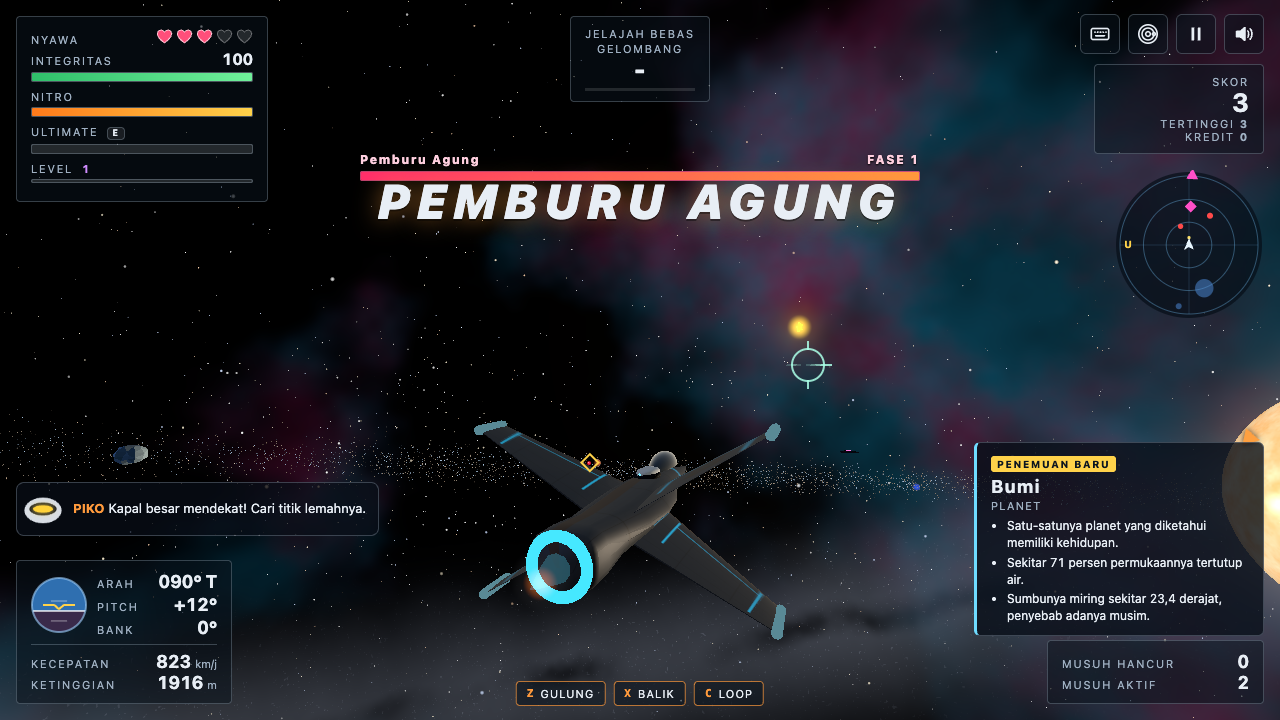
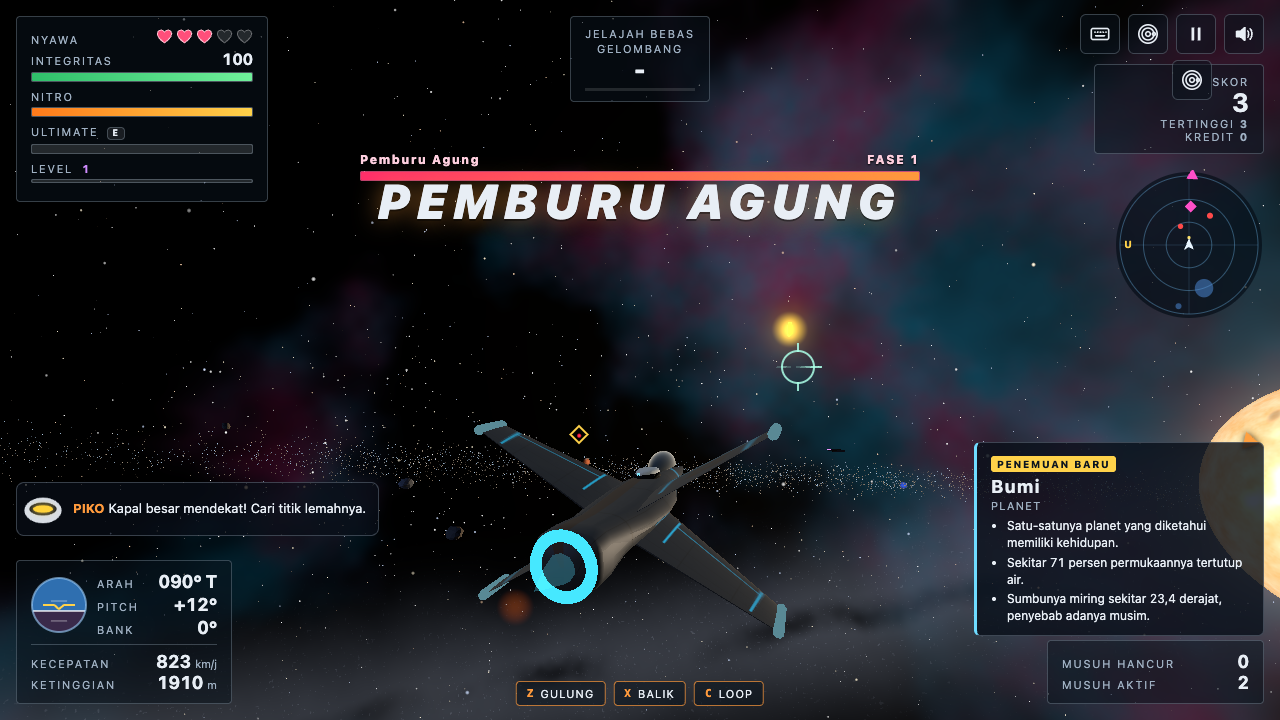
feat: H3 HUD ringkas mode HP: status 146x47 kiri atas, satu baris misi dan skor, toolbar Jeda dan Suara, radar 52 px dengan ikon peta
- Blok HUD desktop tidak berubah; mode HP memakai #hpx-status dan #hpx-top
- Tombol mode kontrol dan peta disembunyikan dari toolbar saat bermain di mode HP
- Bar bos tipis 5 px di bawah baris misi, buff berupa ikon kecil di bawah status
- Radar menyesuaikan ukuran CSS, teks HUD minimal 11 px
- Uji tekanan 27a masih menangkap panel Piko, panel data, dan peringatan lama yang diganti di H4

diff --git a/index.html b/index.html
@@ -472,30 +472,51 @@
   .dpad .d-up { left: 35%; top: 4%; } .dpad .d-down { left: 35%; bottom: 4%; } .dpad .d-left { left: 4%; top: 35%; } .dpad .d-right { right: 4%; top: 35%; }
   .dpad svg.on { stroke: #ffb45c; }
   .dpad.on { opacity: 1; }
-  /* HUD mode HP: blok bawah disembunyikan agar tidak bertabrakan dengan tombol */
-  body.mode-hp .hud-block.bl, body.mode-hp .hud-block.br { display: none; }
-  /* Baris atas mode HP: kiri (status ringkas), tengah (misi), kanan (skor), lalu bar bos dan panel data di tengah */
-  body.mode-hp .hud-block { padding: 5px 9px; }
-  body.mode-hp .hud-block.tl { width: 184px; }
-  body.mode-hp .hud-block.tl .lv-row, body.mode-hp #xp-bar { display: none; }
-  body.mode-hp .hud-block.tl .row { margin-top: 1px; }
-  body.mode-hp .hud-block.tl .bar { height: 5px; margin: 2px 0 3px; }
-  body.mode-hp .hud-block.tc { max-width: min(240px, 30vw); padding: 4px 8px; top: calc(-4px + var(--ed-t)) !important; }
-  body.mode-hp .hud-block.tc > .label:not(.mission) { display: none; }
-  body.mode-hp .hud-block.tc .big { font-size: 15px; }
-  body.mode-hp .mission { white-space: nowrap; overflow: hidden; text-overflow: ellipsis; font-size: 9px; }
-  body.mode-hp .hud-block.tr { top: calc(38px + var(--ed-t)) !important; }
-  body.mode-hp .hud-block.tr .label:not(:first-child) { display: none; }
-  body.mode-hp #radar { width: 72px; height: 72px; top: calc(102px + var(--ed-t)); }
-  body.mode-hp #boss-bar { top: calc(54px + var(--ed-t)); width: min(320px, 34vw); }
-  body.mode-hp #data-panel { right: auto; left: 50%; transform: translateX(-50%); top: calc(86px + var(--ed-t)); bottom: auto; width: min(240px, 30vw); padding: 4px 9px; }
-  body.mode-hp #data-panel h3 { font-size: 14px; }
-  body.mode-hp #data-facts, body.mode-hp #data-panel .dcls { display: none; }
-  body.mode-hp #piko-panel { left: calc(50% - 33px); transform: translateX(-50%); top: auto; bottom: calc(-2px + var(--ed-b)); width: max-content; max-width: max(150px, calc(100vw - 530px)); }
-  body.mode-hp #piko-text { font-size: 12px; }
-  body.mode-hp #buffs { top: auto !important; left: 50%; transform: translateX(-50%); bottom: calc(80px + var(--ed-b)); flex-direction: row; }
-  /* Peringatan mode HP: bertumpuk di celah tengah bawah di antara dua kelompok tombol */
-  /* Celah tengah bawah tidak simetris (kelompok kanan lebih lebar), jadi pusatnya digeser 33 px ke kiri */
+  /* HUD mode HP (H3): blok desktop disembunyikan, diganti status ringkas kiri atas (maks 150x48) dan satu
+     baris misi tengah atas (maks 220x26). Kanan atas hanya Jeda dan Suara, radar kecil di bawahnya. */
+  .hpx-block { display: none; }
+  body.mode-hp .hud-block { display: none; }
+  body.mode-hp .hpx-block { display: flex; position: absolute; background: rgba(8, 14, 24, 0.58); border: 1px solid var(--ui-line); border-radius: 6px; }
+  #hpx-status { left: var(--sa-l); top: var(--sa-t); width: 146px; flex-direction: column; gap: 3px; padding: 3px 7px; line-height: 1; }
+  #hpx-status .hpx-r { height: 11px; }
+  .hpx-r { display: flex; align-items: center; gap: 5px; min-height: 0; }
+  .hpx-hearts { display: flex; gap: 2px; }
+  .hpx-hearts svg { width: 12px; height: 11px; }
+  .hpx-hearts svg path { fill: rgba(255, 255, 255, 0.14); stroke: rgba(255, 255, 255, 0.4); stroke-width: 2; }
+  .hpx-hearts svg.on path { fill: #ff4f7a; stroke: #ffc0d0; }
+  .hpx-lv { margin-left: auto; font-size: 11px; font-weight: 800; letter-spacing: 0.06em; color: #d9b8ff; }
+  .hpx-bar { position: relative; flex: 1; height: 7px; background: rgba(255, 255, 255, 0.14); border-radius: 3px; overflow: hidden; }
+  .hpx-bar > i { position: absolute; inset: 0; transform-origin: left center; display: block; }
+  .hpx-bar.thin { height: 4px; }
+  #hpx-hp { background: linear-gradient(90deg, #2fbf6a, #6ff09a); }
+  #hpx-hpbar.mid #hpx-hp { background: linear-gradient(90deg, #d9a21b, #ffd24a); }
+  #hpx-hpbar.low #hpx-hp { background: linear-gradient(90deg, #c22a2a, #ff5a4a); }
+  #hpx-nitro { background: linear-gradient(90deg, #ff7a1a, #ffd24a); }
+  #hpx-nitrobar.locked { background: rgba(255, 77, 77, 0.35); }
+  #hpx-ult { background: linear-gradient(90deg, #c4357a, #ff5ad0); transform: scaleX(0); }
+  #hpx-ultbar.ready { box-shadow: 0 0 6px rgba(255, 90, 208, 0.9); }
+  .hpx-num { font-size: 11px; font-weight: 800; min-width: 22px; text-align: right; }
+  .hpx-ic { width: 11px; height: 11px; flex: none; }
+  .hpx-ic.nitro { fill: #ffb04a; } .hpx-ic.ult { fill: #ff7ad8; }
+  #hpx-top { left: 50%; top: var(--sa-t); transform: translateX(-50%); max-width: min(220px, 40vw); height: 24px; align-items: center; gap: 6px; padding: 0 8px;
+    font-size: 11px; font-weight: 800; letter-spacing: 0.05em; white-space: nowrap; }
+  .hpx-mis { overflow: hidden; text-overflow: ellipsis; color: #9fe8ff; min-width: 0; }
+  .hpx-mult { color: #ffd24a; font-style: italic; } .hpx-mult:empty { display: none; }
+  .hpx-score { margin-left: auto; padding-left: 4px; color: #fff; font-size: 12px; font-variant-numeric: tabular-nums; }
+  body.mode-hp #toolbar { top: var(--sa-t); right: var(--sa-r); gap: 8px; }
+  body.mode-hp .tool { position: relative; min-width: 36px; height: 36px; padding: 0 6px; }
+  body.mode-hp .tool::before { content: ""; position: absolute; inset: -4px; }
+  body.mode-hp .tool svg { width: 20px; height: 20px; }
+  body.mode-hp.in-play #btn-mode, body.mode-hp.in-play #btn-map { display: none; }
+  body.mode-hp #radar { width: 52px; height: 52px; top: calc(var(--sa-t) + 44px); right: var(--sa-r); }
+  #btn-radar-map { position: fixed; z-index: 40; top: calc(var(--sa-t) + 52px); right: calc(var(--sa-r) + 60px); }
+  body.mode-hp #boss-bar { top: calc(var(--sa-t) + 26px); width: min(220px, 40vw); }
+  body.mode-hp #boss-bar .bb-head { display: none; }
+  body.mode-hp #boss-bar .bb-track { height: 5px; }
+  body.mode-hp #buffs { top: calc(var(--sa-t) + 52px) !important; left: var(--sa-l); flex-direction: row; gap: 6px; }
+  body.mode-hp .buff { padding: 2px 6px; gap: 4px; font-size: 11px; }
+  body.mode-hp .buff span { display: none; }
+  body.mode-hp .buff svg { width: 13px; height: 13px; }
   body.mode-hp #warning, body.mode-hp #rear-warn, body.mode-hp #comet-warn, body.mode-hp #critical {
     top: auto; left: calc(50% - 33px); padding: 3px 7px; font-size: 10px; letter-spacing: 0.06em; white-space: nowrap; max-width: max(140px, calc(100vw - 520px)); overflow: hidden; text-overflow: ellipsis; }
   body.mode-hp #warning { bottom: calc(96px + var(--ed-b)); border-width: 1px; }
@@ -529,7 +550,6 @@
     .big { font-size: 18px; }
     .label { font-size: 10px; }
     .stat .num { font-size: 14px; min-width: 44px; }
-    body.mode-hp #radar { width: 68px; height: 68px; top: calc(96px + var(--ed-t)); }
     .card { padding: 16px 18px; gap: 10px; }
     .screen h2 { font-size: 30px; }
   }
@@ -725,6 +745,18 @@
     <p id="data-class" class="dcls"></p>
     <ul id="data-facts"></ul>
   </div>
+  <!-- HUD ringkas mode HP (H3): status kiri atas dan satu baris misi di tengah atas -->
+  <div id="hpx-status" class="hpx-block">
+    <div class="hpx-r"><span id="hpx-hearts" class="hpx-hearts"></span><span id="hpx-lv" class="hpx-lv">LV 1</span></div>
+    <div class="hpx-r"><span class="hpx-bar" id="hpx-hpbar"><i id="hpx-hp"></i></span><span id="hpx-hptext" class="hpx-num">100</span></div>
+    <div class="hpx-r">
+      <svg class="hpx-ic nitro" viewBox="0 0 24 24" aria-label="Nitro"><path d="M12 2.5c1 3.5 5.5 6 5.5 11a5.5 5.5 0 0 1-11 0c0-2.3 1-3.8 2.2-5 0 2 .9 3.3 2.3 3.3 0-3.4.8-6.2 1-9.3z"/></svg>
+      <span class="hpx-bar thin" id="hpx-nitrobar"><i id="hpx-nitro"></i></span>
+      <svg class="hpx-ic ult" viewBox="0 0 24 24" aria-label="Ultimate"><path d="M12 2.5l2.6 6.3 6.8.5-5.2 4.4 1.6 6.6L12 16.8l-5.8 3.5 1.6-6.6-5.2-4.4 6.8-.5z"/></svg>
+      <span class="hpx-bar thin" id="hpx-ultbar"><i id="hpx-ult"></i></span>
+    </div>
+  </div>
+  <div id="hpx-top" class="hpx-block"><span id="hpx-mission" class="hpx-mis"></span><span id="hpx-mult" class="hpx-mult"></span><span id="hpx-score" class="hpx-score">0</span></div>
   <div class="hud-block tl">
     <div class="row"><span class="label">NYAWA</span><span id="hearts"></span></div>
     <div class="row"><span class="label">INTEGRITAS</span><span id="hp-text" class="num">100</span></div>
@@ -803,6 +835,9 @@
   <button id="prompt-no" class="btn secondary" type="button">TIDAK</button>
 </div>
 
+<button id="btn-radar-map" class="tool hidden" type="button" aria-label="Peta Tata Surya" title="Peta Tata Surya">
+  <svg viewBox="0 0 24 24"><circle cx="12" cy="12" r="2.5"/><circle cx="12" cy="12" r="6.5" fill="none"/><circle cx="12" cy="12" r="10" fill="none"/><circle cx="18.5" cy="12" r="1.6"/></svg>
+</button>
 <!-- Lens flare halus matahari angkasa -->
 <div id="flare"><i class="f0"></i><i class="f1"></i><i class="f2"></i><i class="f3"></i></div>
 
@@ -8329,6 +8364,15 @@ const Contracts = {
     Events.emit('contractDone', k.type);
   },
   // Teks misi di HUD
+  // Versi ringkas untuk baris misi mode HP
+  shortLabel() {
+    const k = this.current;
+    if (!k) return '';
+    if (k.done) return 'KONTRAK SELESAI';
+    if (k.type === 'bersihkan') return 'BERSIHKAN ' + Math.min(k.progress, k.target) + '/' + k.target;
+    if (k.type === 'buru') return k.spawnIn > 0 ? 'BURU: tunggu sinyal' : k.target ? 'BURU ' + Math.round(k.target.pos.distanceTo(Player.pos)) + ' m' : 'BURU TARGET';
+    return 'KAWAL ' + Math.ceil(Convoy.health.hp) + '/' + Convoy.health.maxHp + ' ' + Math.round(Convoy.remaining()) + ' m';
+  },
   label() {
     const k = this.current;
     if (!k) return '';
@@ -8486,7 +8530,8 @@ const Radar = {
     return null;
   },
   update() {
-    if (!this.ctx) this.init();
+    if (!this.ctx ? true : this.cv.clientWidth !== this.size) { if (this.cv.clientWidth > 0) this.init(); }
+    if (!this.ctx) return;
     this.frame++;
     this.updateInstruments();
     if (this.frame % 2) return;   // radar 30 kali per detik sudah cukup
@@ -10248,8 +10293,9 @@ for (let i = 0; i < 8; i++) {
   hud.indicators.push(el);
   hud.indicatorType.push('');
 }
-// Ikon hati untuk nyawa (SVG inline, maksimum sesuai CONFIG)
+// Ikon hati untuk nyawa (SVG inline, maksimum sesuai CONFIG); salinan kecil untuk HUD mode HP
 hud.hearts = [];
+hud.heartsHp = [];
 for (let i = 0; i < CONFIG.difficulty.maxLives; i++) {
   const ns = 'http://www.w3.org/2000/svg';
   const svg = document.createElementNS(ns, 'svg');
@@ -10259,12 +10305,17 @@ for (let i = 0; i < CONFIG.difficulty.maxLives; i++) {
   svg.appendChild(path);
   $('hearts').appendChild(svg);
   hud.hearts.push(svg);
+  const small = svg.cloneNode(true);
+  $('hpx-hearts').appendChild(small);
+  hud.heartsHp.push(small);
 }
 function renderHearts(lives) {
   for (let i = 0; i < hud.hearts.length; i++) {
     const on = i < lives;
     const was = hud.hearts[i].classList.contains('on');
     hud.hearts[i].setAttribute('class', on ? 'on' : (was ? 'lost' : ''));
+    hud.heartsHp[i].setAttribute('class', on ? 'on' : '');
+    hud.heartsHp[i].style.display = i < Math.max(lives, Game.diff ? Game.diff.lives : 3) ? '' : 'none';
   }
 }
 
@@ -10407,6 +10458,38 @@ Events.on('starCollected', (kind, x, y, z) => {
   d.el.className = 'dmgnum star';
   d.el.style.color = '#' + CONFIG.stars.kinds[kind].color.toString(16).padStart(6, '0');
 });
+// Teks misi ringkas untuk baris tengah atas mode HP: bos, kontrak kampanye, atau gelombang
+function hpxMission() {
+  const B = Bosses.active;
+  if (B) return (B.name || 'BOS').toUpperCase() + (B.phaseLabel ? ' ' + B.phaseLabel() : '');
+  const w = Waves.wave > 0 ? 'G' + Waves.wave + (Campaign.active ? '/' + Campaign.stage.waves : '') : '';
+  if (Campaign.active) { const c = Contracts.shortLabel(); return 'S' + (Campaign.stageIdx + 1) + ' ' + (c || w) + (c ? (w ? ' · ' + w : '') : ''); }
+  if (Worlds.active === SpaceWorld) return 'JELAJAH' + (w ? ' · ' + w : '');
+  return Waves.wave > 0 ? 'GELOMBANG ' + Waves.wave : 'SIAP';
+}
+// HUD ringkas mode HP (H3): status kiri atas dan baris misi tengah atas
+function updateHudHp(hp) {
+  let v = Math.round(hp * 200) / 200;
+  if (changed('hpx-hp', v)) $('hpx-hp').style.transform = 'scaleX(' + v + ')';
+  v = Math.ceil(Player.hp);
+  if (changed('hpx-hptext', v)) $('hpx-hptext').textContent = v;
+  v = hp < 0.3 ? 'hpx-bar low' : hp < 0.6 ? 'hpx-bar mid' : 'hpx-bar';
+  if (changed('hpx-hpclass', v)) $('hpx-hpbar').className = v;
+  v = Math.round(Player.nitro * 100) / 100;
+  if (changed('hpx-nitro', v)) $('hpx-nitro').style.transform = 'scaleX(' + v + ')';
+  v = Player.nitroLock > 0;
+  if (changed('hpx-nlock', v)) $('hpx-nitrobar').classList.toggle('locked', v);
+  v = Math.round(Player.ult * 100) / 100;
+  if (changed('hpx-ult', v)) { $('hpx-ult').style.transform = 'scaleX(' + v + ')'; $('hpx-ultbar').classList.toggle('ready', v >= 1); }
+  v = 'LV ' + (Levels.level + Levels.pending);
+  if (changed('hpx-lv', v)) $('hpx-lv').textContent = v;
+  v = hpxMission();
+  if (changed('hpx-mis', v)) $('hpx-mission').textContent = v;
+  v = Combo.multiplier > 1 ? 'x' + Combo.multiplier : '';
+  if (changed('hpx-mult', v)) $('hpx-mult').textContent = v;
+  v = Math.floor(Game.score);
+  if (changed('hpx-score', v)) $('hpx-score').textContent = fmtInt(v);
+}
 // Tulis ke DOM hanya bila nilainya berubah (tanpa closure per frame, tanpa layout berulang)
 function changed(key, value) {
   if (hud.last[key] === value) return false;
@@ -10498,6 +10581,7 @@ function updateHud(dt) {
   if (Game.state === 'playing') Radar.update();
   v = Game.state === 'playing' ? (Player.alive ? hp < CONFIG.player.criticalHp : false) : false;
   if (changed('critical', v)) $('critical').classList.toggle('hidden', !v);
+  if (Touch.enabled) updateHudHp(hp);
 
   hud.hitTimer = Math.max(0, hud.hitTimer - dt);
   v = hud.hitTimer > 0 ? (hud.hitKill ? 'on kill' : 'on') : '';
@@ -10721,6 +10805,8 @@ function setState(next) {
   Contracts.el.classList.toggle('hidden', next !== 'contract');
   document.getElementById('screen-stageclear').classList.toggle('hidden', next !== 'stageclear');
   document.getElementById('btn-map').classList.toggle('hidden', !(next === 'playing' ? Worlds.active === SpaceWorld : false));
+  document.getElementById('btn-radar-map').classList.toggle('hidden', !(next === 'playing' ? Worlds.active === SpaceWorld : false));
+  document.body.classList.toggle('in-play', !(next === 'menu' || next === 'boot' || next === 'gameover' || next === 'final' || next === 'preview'));
   const hudOn = next === 'playing' || next === 'paused' || next === 'countdown' || next === 'starting';
   document.getElementById('hud').classList.toggle('hidden', !hudOn);
   ui.toolbar.classList.toggle('hidden', next === 'boot' || next === 'preview');
@@ -10957,6 +11043,7 @@ for (const c of modeScreen.querySelectorAll('.mcard')) {
 onButton(document.getElementById('btn-mode-back'), () => { UI.closeOverlay(true); openTerrainSelect(); });
 onButton(document.getElementById('btn-map-close'), () => SolarMap.close());
 onButton(document.getElementById('btn-map'), () => SolarMap.toggle());
+onButton(document.getElementById('btn-radar-map'), () => SolarMap.toggle());
 document.getElementById('cs-skip').addEventListener('click', () => Cutscene.skip());
 // Stage clear: LANJUT membuka gerbang loncat di depan; KELUAR membawa pulang kredit penuh
 onButton(document.getElementById('btn-sc-next'), () => {
@@ -11503,9 +11590,12 @@ const Touch = {
   },
   // Batas atas cakram joystick: di bawah blok HUD kiri atas agar tidak menimpanya
   topLimit() {
-    const tl = document.querySelector('.hud-block.tl');
-    const r = tl ? tl.getBoundingClientRect() : null;
-    return r ? (r.height > 0 ? r.bottom + 6 : 60) : 60;
+    let y = 60;
+    for (const el of [document.getElementById('hpx-status'), document.getElementById('buffs')]) {
+      const r = el.getBoundingClientRect();
+      if (r.height > 0) y = Math.max(y, r.bottom + 6);
+    }
+    return y;
   },
   startJoy(e) {
     const J = this.joy, rect = this.joyEl.getBoundingClientRect();

diff --git a/docs/PROGRESS.md b/docs/PROGRESS.md
@@ -100,7 +100,7 @@ y 20 sampai 80 persen) bebas UI.
 
 - H1 (SELESAI) Audit CSS mode HP, var --u (clamp(34px, 11vh, 48px), dari visualViewport), --sa-l/t/r/b = max(safe-area, 8px), override ?safearea=kiri,atas,kanan,bawah, hapus penjumlahan 16px dengan safe-area.
 - H2 (SELESAI) Joystick analog melayang (separuh kiri, deadzone 12 persen, kurva halus, lewat Controls), cluster aksi baru (tembak pojok kanan bawah, nitro di atasnya, 2x2 manuver dan ultimate), hit slop 44 px, opsi Ukuran kontrol, Transparansi, Mode kidal, Gaya kontrol kiri (Joystick atau Tombol arah).
-- H3 (BELUM) HUD kompak (kiri atas 150x48, baris misi tengah atas, kanan atas hanya Jeda dan Suara), radar 48 sampai 56 px dengan ikon peta, teks minimum 11 px.
+- H3 (SELESAI) HUD kompak (kiri atas 150x48, baris misi tengah atas, kanan atas hanya Jeda dan Suara), radar 48 sampai 56 px dengan ikon peta, teks minimum 11 px.
 - H4 (BELUM) Pusat notifikasi tunggal dengan antrean prioritas (Piko, area, pickup, level, kontrak), indikator tepi untuk peringatan kritis, Bantuan robot: Penuh, Ringkas, Hanya ikon, Mati.
 - H5 (BELUM) Kamera mode HP: jarak dan offset agar pesawat maksimal 18 persen tinggi di sepertiga bawah, opsi Jarak kamera.
 - H6 (BELUM) Menu dua kolom, jeda dua kolom, pengaturan bertab, kartu kontrak dan level, game over, stage clear, peta, hangar, atlas muat di 320 px; teks petunjuk per mode; overlay menyembunyikan HUD.
